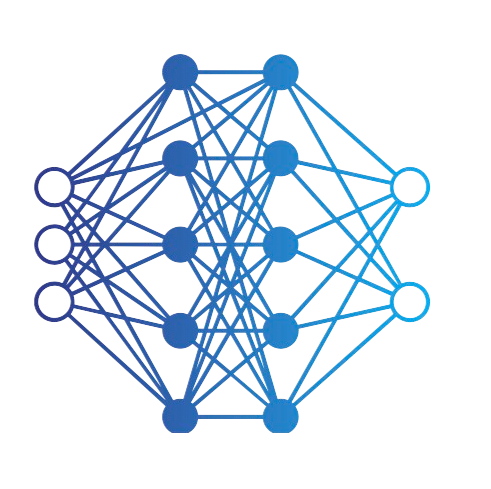
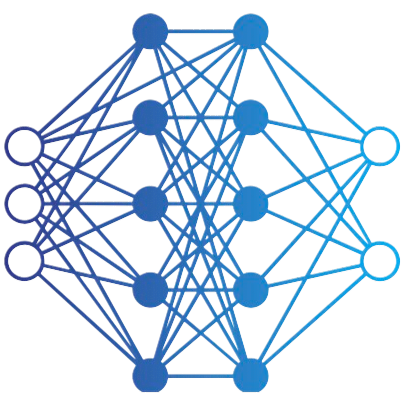
changed position

diff --git a/index.html b/index.html
@@ -16,12 +16,13 @@
       const mainTagline = document.querySelector('.main-tagline');
       const tryNowBtn = document.querySelector('.sign-in-button');
       
-      // Add the morphing classes
-      requestAnimationFrame(() => {
-        mainLogo.classList.add('move-to-header');
-        mainTitle.classList.add('move-to-header-title');
-        mainTagline.classList.add('move-to-header-tagline');
-      });
+       // Add the morphing classes
+  requestAnimationFrame(() => {
+    mainLogo.classList.add('move-to-header');
+    mainTitle.classList.add('move-to-header-title');
+    mainTitle.textContent = 'DataNXT Equity'; // Add this line
+    mainTagline.classList.add('move-to-header-tagline');
+  });
       
       // Hide the button
       tryNowBtn.style.opacity = '0';
@@ -32,7 +33,7 @@
         const chatbotContainer = document.createElement('iframe');
         chatbotContainer.src = "https://chat.datanxt.de";
         chatbotContainer.classList.add('chatbot-iframe');
-        chatbotContainer.title = "DataNXT Chatbot";
+        chatbotContainer.title = "DataNXT Equity";
         chatbotContainer.setAttribute('aria-label', 'Chat with DataNXT support');
         
         // Add iframe to body
@@ -54,9 +55,10 @@
       const chatbotIframe = document.querySelector('.chatbot-iframe');
       
       // Remove morphing classes
-      mainLogo.classList.remove('move-to-header');
-      mainTitle.classList.remove('move-to-header-title');
-      mainTagline.classList.remove('move-to-header-tagline');
+  mainLogo.classList.remove('move-to-header');
+  mainTitle.classList.remove('move-to-header-title');
+  mainTitle.textContent = 'DataNXT'; // Add this line
+  mainTagline.classList.remove('move-to-header-tagline');
       
       // Show button
       tryNowBtn.style.opacity = '1';

diff --git a/styles.css b/styles.css
@@ -46,16 +46,31 @@ body {
 /* Logo styling */
 .main-logo {
   position: absolute;
-  top: 40%; /* Moved higher */
+  top: 30%; /* Moved higher */
   left: 50%;
   transform: translate(-50%, -50%);
   width: 250px;
   height: 250px;
   transition: all 0.8s cubic-bezier(0.4, 0, 0.2, 1);
   z-index: 10;
+  cursor: pointer;
 }
 
-/* Button stays centered */
+/* Title styling */
+.main-title {
+  position: absolute;
+  top: calc(45%); /* Moved higher */
+  left: 50%;
+  transform: translateX(-50%);
+  font-size: 4rem;
+  color: #0070c9;
+  transition: all 0.8s cubic-bezier(0.4, 0, 0.2, 1);
+  z-index: 10;
+  margin: 0;
+  text-align: center;
+}
+
+/* Button styling */
 .sign-in-button {
   position: absolute;
   top: 50%;
@@ -72,24 +87,10 @@ body {
   z-index: 10;
 }
 
-/* Title styling */
-.main-title {
-  position: absolute;
-  top: calc(60%); /* Adjusted position */
-  left: 50%;
-  transform: translateX(-50%);
-  font-size: 4rem;
-  color: #0070c9;
-  transition: all 0.8s cubic-bezier(0.4, 0, 0.2, 1);
-  z-index: 10;
-  margin: 0;
-  text-align: center;
-}
-
 /* Tagline styling */
 .main-tagline {
   position: absolute;
-  top: calc(60% + 80px); /* Adjusted to maintain spacing with title */
+  top: calc(45% + 80px); /* Adjusted spacing relative to new title position */
   left: 50%;
   transform: translateX(-50%);
   font-size: 1.5rem;
@@ -117,8 +118,8 @@ body {
   left: 100px;
   transform: none;
   font-size: 1.8rem;
+  content: "DataNXT Equity"; /* This won't work directly - see JavaScript below */
 }
-
 
 
 
